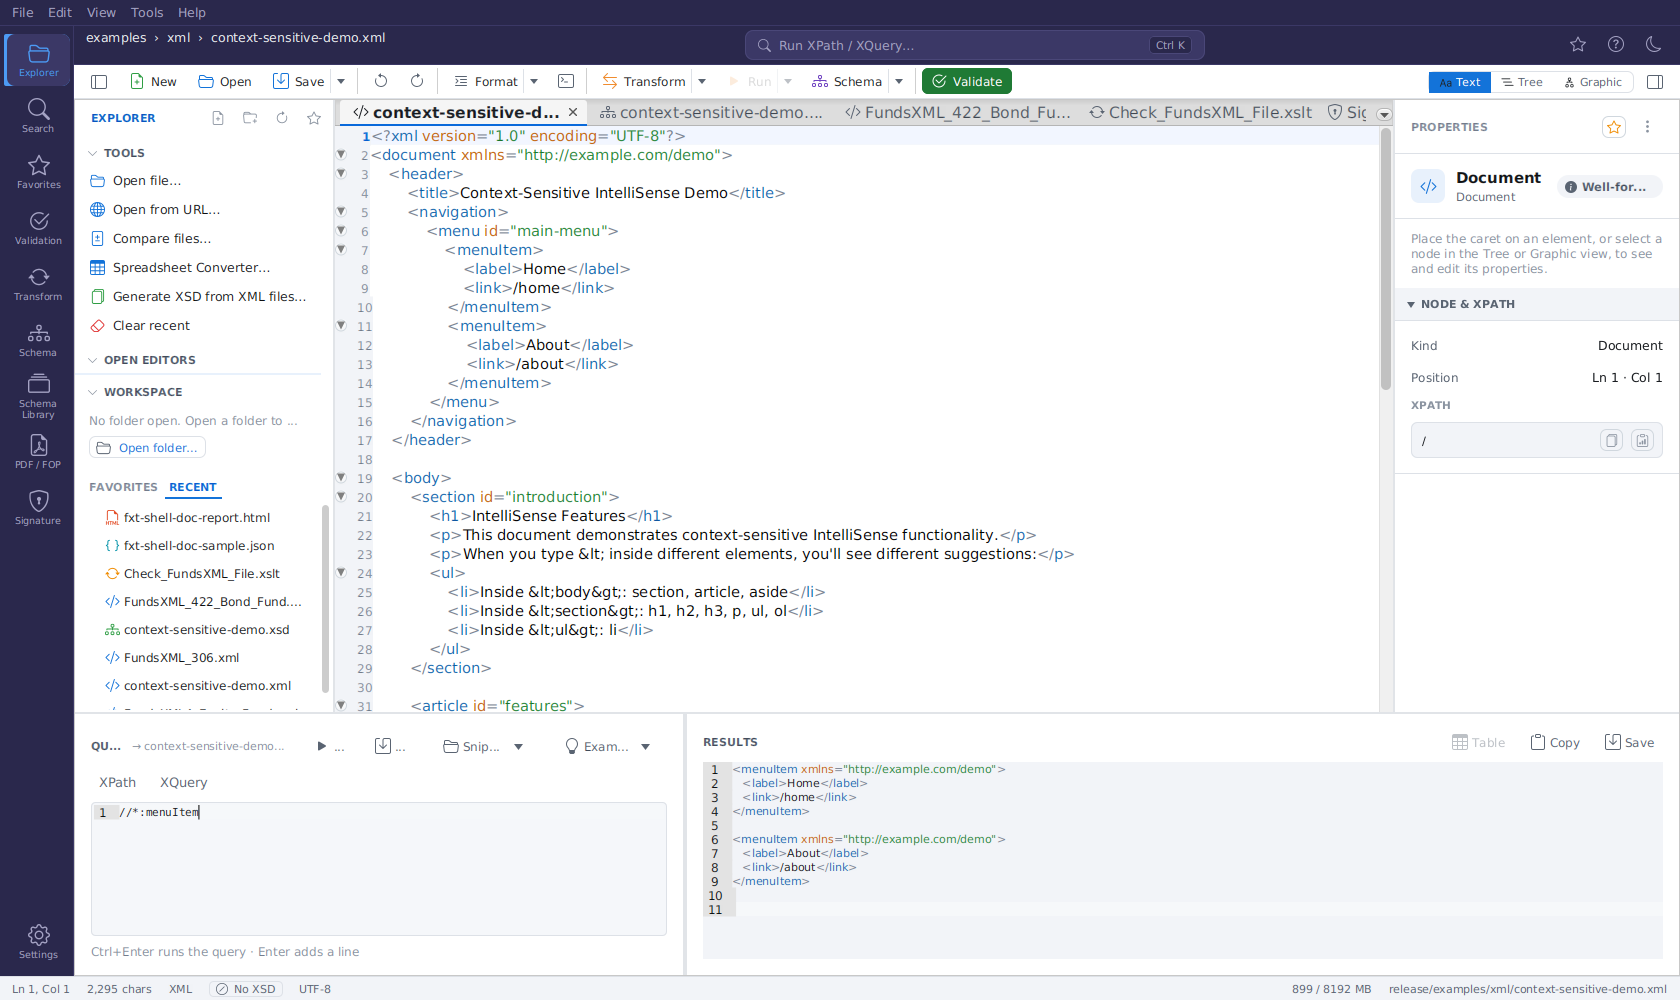
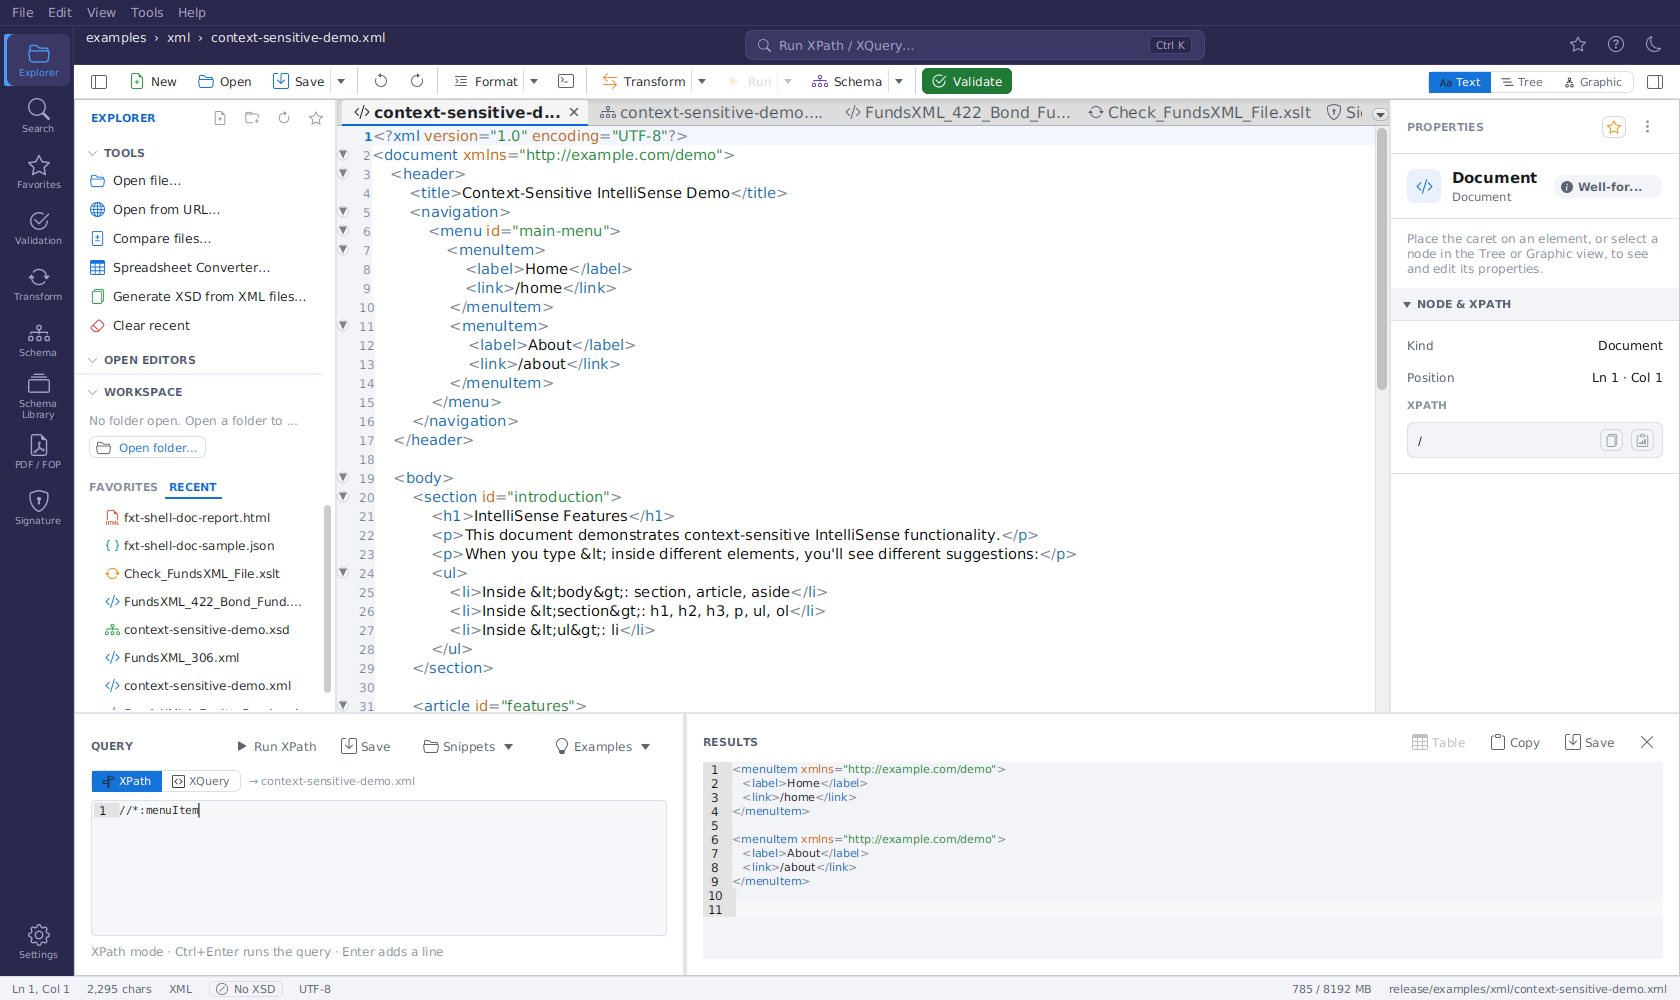
feat(query): close button for the Query Console and a clear XPath/XQuery mode
- Close button (✕) at the top right of the console and Esc close it
  (an open completion popup takes Esc first); focus returns to the editor.
- XPath | XQuery is a segmented switch like Text | Tree | Graphic; the
  active mode is also named on the Run button, in the hint and in the
  empty input's example. The target document moved next to the switch.
- Screenshot generator presses Esc only while the popup shows.

diff --git a/src/main/java/org/fxt/freexmltoolkit/controls/shell/editor/QueryConsole.java b/src/main/java/org/fxt/freexmltoolkit/controls/shell/editor/QueryConsole.java
@@ -80,6 +80,10 @@ public class QueryConsole extends Region {
 
     /** Per-run statistics ("42 ms · 1234 chars"), shown only when execution statistics are enabled. */
     @FXML private Label statsLabel;
+    /** Empty-input hint of the path field; its text follows XPath / JSONPath. */
+    private final Label xpathPlaceholder = placeholder("");
+    /** Below the input: names the active mode and how to run it. */
+    @FXML private Label runHint;
 
     // XPath/XQuery autocompletion engines, one per input (created in buildInput()).
     private XPathIntelliSenseEngine xpathIntelliSense;
@@ -98,6 +102,9 @@ public class QueryConsole extends Region {
     private String lastXQueryResult;
     private XQueryTableRunner.XQueryTable lastXQueryTable;
     private long lastXQueryElapsedMs;
+
+    /** Called by the close button and Esc; the shell removes the console from its split. */
+    private Runnable onCloseRequest = () -> { };
 
     public QueryConsole(EditorHost editorHost) {
         this.editorHost = editorHost;
@@ -119,6 +126,26 @@ public class QueryConsole extends Region {
         });
         updatePathLabel();
         fillExamplesMenu();
+
+        // Esc closes the console. A handler (not a filter): an open completion popup or
+        // menu consumes Esc first, so Esc there only dismisses the popup.
+        addEventHandler(KeyEvent.KEY_PRESSED, e -> {
+            if (e.getCode() == KeyCode.ESCAPE) {
+                onClose();
+                e.consume();
+            }
+        });
+    }
+
+    /** Sets what closing the console (close button, Esc) does; {@code null} resets it to nothing. */
+    public void setOnCloseRequest(Runnable handler) {
+        this.onCloseRequest = handler != null ? handler : () -> { };
+    }
+
+    /** Close button at the top right of the console. */
+    @FXML
+    public void onClose() {
+        onCloseRequest.run();
     }
 
     private void initInput() {
@@ -137,6 +164,8 @@ public class QueryConsole extends Region {
         });
 
         inputStack.getChildren().addAll(xpathField, xqueryArea);
+        xpathField.setPlaceholder(xpathPlaceholder);
+        xqueryArea.setPlaceholder(placeholder("XQuery script, e.g. for $i in //item return string($i/@id)"));
         xpathField.getStyleClass().addAll("fxt-xpath-field", "fxt-query-input");
         xpathField.setWrapText(true);
         xpathField.setPrefHeight(96);
@@ -211,6 +240,7 @@ public class QueryConsole extends Region {
     /** The XPath toggle reads "JSONPath" while a JSON document is active (it then runs JSONPath). */
     private void updatePathLabel() {
         xpathToggle.setText(isJsonActive() ? "JSONPath" : "XPath");
+        updateModeTexts();
     }
 
     /** Fills the Examples menu with the built-in XQuery examples (formerly in the Transform panel). */
@@ -254,6 +284,31 @@ public class QueryConsole extends Region {
         xqueryArea.setManaged(xquery);
         xpathField.setVisible(!xquery);
         xpathField.setManaged(!xquery);
+        updateModeTexts();
+    }
+
+    /** The active mode as the user reads it: XPath, JSONPath (JSON document) or XQuery. */
+    String modeName() {
+        if (xqueryToggle.isSelected()) {
+            return "XQuery";
+        }
+        return isJsonActive() ? "JSONPath" : "XPath";
+    }
+
+    /** Names the active mode on the Run button and in the hint, so the mode is never a guess. */
+    private void updateModeTexts() {
+        String mode = modeName();
+        runButton.setText("Run " + mode);
+        runHint.setText(mode + " mode · Ctrl+Enter runs the query · Enter adds a line");
+        xpathPlaceholder.setText(isJsonActive()
+                ? "JSONPath expression, e.g. $.items[0].id"
+                : "XPath expression, e.g. //item[@id = '1']");
+    }
+
+    private static Label placeholder(String text) {
+        Label label = new Label(text);
+        label.getStyleClass().add("fxt-placeholder-text");
+        return label;
     }
 
     /** Enables/disables Run based on whether a document is currently open. */

diff --git a/src/test/java/org/fxt/freexmltoolkit/controls/shell/editor/QueryConsoleTest.java b/src/test/java/org/fxt/freexmltoolkit/controls/shell/editor/QueryConsoleTest.java
@@ -553,4 +553,63 @@ class QueryConsoleTest {
         WaitForAsyncUtils.waitFor(3, TimeUnit.SECONDS, () -> "JSONPath".equals(
                 WaitForAsyncUtils.waitForAsyncFx(2000, console::pathModeLabelForTest)));
     }
+
+    @Test
+    void closeButtonAndEscapeRequestClose() throws Exception {
+        QueryConsole console = WaitForAsyncUtils.waitForAsyncFx(2000, () -> new QueryConsole(host));
+        java.util.concurrent.atomic.AtomicInteger closes = new java.util.concurrent.atomic.AtomicInteger();
+        WaitForAsyncUtils.waitForAsyncFx(2000, () -> {
+            console.setOnCloseRequest(closes::incrementAndGet);
+            // SplitPane items join the scene graph only through its skin, so give it a scene.
+            new javafx.scene.Scene(console, 900, 300);
+            console.applyCss();
+            console.layout();
+            var close = (javafx.scene.control.Button) console.lookup("#query-console-close");
+            assertNotNull(close, "close button at the top right of the console");
+            close.fire();
+            return null;
+        });
+        assertEquals(1, closes.get());
+
+        WaitForAsyncUtils.waitForAsyncFx(2000, () -> {
+            javafx.event.Event.fireEvent(console, new javafx.scene.input.KeyEvent(
+                    javafx.scene.input.KeyEvent.KEY_PRESSED, "", "",
+                    javafx.scene.input.KeyCode.ESCAPE, false, false, false, false));
+            return null;
+        });
+        assertEquals(2, closes.get());
+    }
+
+    @Test
+    void activeModeIsNamedOnRunAndHint() throws Exception {
+        QueryConsole console = WaitForAsyncUtils.waitForAsyncFx(2000, () -> new QueryConsole(host));
+        WaitForAsyncUtils.waitForAsyncFx(2000, () -> {
+            new javafx.scene.Scene(console, 900, 300);
+            console.applyCss();
+            console.layout();
+            return null;
+        });
+        assertEquals("Run XPath", WaitForAsyncUtils.waitForAsyncFx(2000, () -> runText(console)));
+        assertTrue(WaitForAsyncUtils.waitForAsyncFx(2000, () -> hintText(console)).startsWith("XPath mode"));
+
+        WaitForAsyncUtils.waitForAsyncFx(2000, () -> {
+            ((javafx.scene.control.ToggleButton) console.lookup("#query-mode-xquery")).fire();
+            return null;
+        });
+        assertTrue(WaitForAsyncUtils.waitForAsyncFx(2000, console::isXQueryModeForTest));
+        assertEquals("Run XQuery", WaitForAsyncUtils.waitForAsyncFx(2000, () -> runText(console)));
+        assertTrue(WaitForAsyncUtils.waitForAsyncFx(2000, () -> hintText(console)).startsWith("XQuery mode"));
+    }
+
+    private static String runText(QueryConsole console) {
+        return console.lookupAll(".button").stream()
+                .filter(n -> n instanceof javafx.scene.control.Button b && b.getText() != null
+                        && b.getText().startsWith("Run"))
+                .map(n -> ((javafx.scene.control.Button) n).getText())
+                .findFirst().orElse(null);
+    }
+
+    private static String hintText(QueryConsole console) {
+        return ((javafx.scene.control.Label) console.lookup("#query-run-hint")).getText();
+    }
 }

diff --git a/src/main/java/org/fxt/freexmltoolkit/controls/shell/UnifiedShellView.java b/src/main/java/org/fxt/freexmltoolkit/controls/shell/UnifiedShellView.java
@@ -188,6 +188,7 @@ public class UnifiedShellView extends BorderPane {
         queryConsole = new org.fxt.freexmltoolkit.controls.shell.editor.QueryConsole(editorHost);
         queryConsole.setMinHeight(180);
         queryConsole.setPrefHeight(220);
+        queryConsole.setOnCloseRequest(this::closeQueryConsole);
         menuBar = new ShellMenuBar(this);
         menuBarHost.getChildren().setAll(menuBar);
         org.fxt.freexmltoolkit.controls.shell.editor.FavoritesMenu.installQuickAccess(
@@ -952,12 +953,21 @@ public class UnifiedShellView extends BorderPane {
      */
     public void toggleQueryConsole() {
         if (isQueryConsoleShown()) {
-            workSplit.getItems().remove(queryConsole);
+            closeQueryConsole();
         } else {
             workSplit.getItems().add(queryConsole);
             workSplit.setDividerPositions(0.7);
             queryConsole.focusInput();
         }
+    }
+
+    /** Hides the Query Console (close button, Esc) and hands the focus back to the editor. */
+    public void closeQueryConsole() {
+        if (!isQueryConsoleShown()) {
+            return;
+        }
+        workSplit.getItems().remove(queryConsole);
+        editorHost.focusActiveEditor();
     }
 
     /** Shows the Query Console (if hidden) and focuses its query input; used by Ctrl+K and the header search pill. */

diff --git a/src/test/java/org/fxt/freexmltoolkit/screenshots/ShellDocScreenshotGenerator.java b/src/test/java/org/fxt/freexmltoolkit/screenshots/ShellDocScreenshotGenerator.java
@@ -373,7 +373,10 @@ class ShellDocScreenshotGenerator {
                 robot.clickOn(xpathInput);
                 settle(200);
                 robot.write("//*:menuItem");
-                robot.push(javafx.scene.input.KeyCode.ESCAPE);
+                // Esc only while the popup shows: with no popup, Esc closes the console.
+                if (robot.lookup(".intellisense-list").tryQuery().isPresent()) {
+                    robot.push(javafx.scene.input.KeyCode.ESCAPE);
+                }
                 robot.push(javafx.scene.input.KeyCode.CONTROL, javafx.scene.input.KeyCode.ENTER);
                 org.fxmisc.richtext.CodeArea results =
                         robot.lookup(".fxt-query-results").queryAs(org.fxmisc.richtext.CodeArea.class);
@@ -396,7 +399,7 @@ class ShellDocScreenshotGenerator {
                 shot("unified-shell-query-console");
             }
             settle();
-            onFx(shell::toggleQueryConsole); // hide again so later shots are unaffected
+            onFx(shell::closeQueryConsole); // hide again so later shots are unaffected
             settle();
         }
 

diff --git a/src/main/java/org/fxt/freexmltoolkit/controls/shell/editor/EditorHost.java b/src/main/java/org/fxt/freexmltoolkit/controls/shell/editor/EditorHost.java
@@ -3041,6 +3041,18 @@ public class EditorHost extends BorderPane {
 
     // ----- internals -------------------------------------------------------
 
+    /** Moves the keyboard focus into the active tab's content (e.g. after a bottom panel closed). */
+    public void focusActiveEditor() {
+        var tab = tabPane.getSelectionModel().getSelectedItem();
+        if (tab != null && tab.getContent() != null) {
+            if (tab instanceof EditorTab et && et.viewMode == ViewMode.TEXT) {
+                et.view.getNode().requestFocus();
+            } else {
+                tab.getContent().requestFocus();
+            }
+        }
+    }
+
     void withActive(java.util.function.Consumer<EditorTab> action) {
         if (tabPane.getSelectionModel().getSelectedItem() instanceof EditorTab et) {
             action.accept(et);

diff --git a/docs/query-console.md b/docs/query-console.md
@@ -10,7 +10,8 @@ XPath, XQuery and JSONPath queries run either in the **Query Console** at the bo
 
 The **Query Console** is a panel that opens along the **bottom of the editor**. Toggle it with the
 **terminal icon** in the editor toolbar or with **Ctrl+Shift+X**; **Ctrl+K** (or a click on the
-header search pill) opens it and focuses the query input. It runs against whichever
+header search pill) opens it and focuses the query input. Close it with the **✕** button at its
+top right or with **Escape** (an open completion popup takes the first Escape). It runs against whichever
 document is currently active, so it is the fastest way to probe an XML or JSON file while you work.
 
 ![Query Console docked at the bottom of the editor](img/unified-shell-query-console.png)
@@ -21,8 +22,10 @@ pane shows the previous run's XML result with syntax highlighting.*
 ### Layout
 
 - **Left - the query:**
-  - An **XPath / XQuery** mode toggle. While a JSON document is active, the XPath toggle
-    reads **JSONPath**.
+  - An **XPath | XQuery** mode switch; the active mode is filled in the accent colour. The
+    mode is also named on the **Run** button (*Run XPath* / *Run XQuery*), in the hint below the
+    input (*XPath mode · …*) and in the empty input's example. While a JSON document is active,
+    the XPath segment reads **JSONPath**. Next to the switch: the document the query runs against.
   - The query input **with IntelliSense** (autocomplete): suggestions pop up as you type after
     `/`, `//`, `@`, `[`, `(`, `$` and `::`, or on demand with **Ctrl+Space**. It suggests element
     and attribute names from the active document, XPath/XQuery functions, axes, operators and
